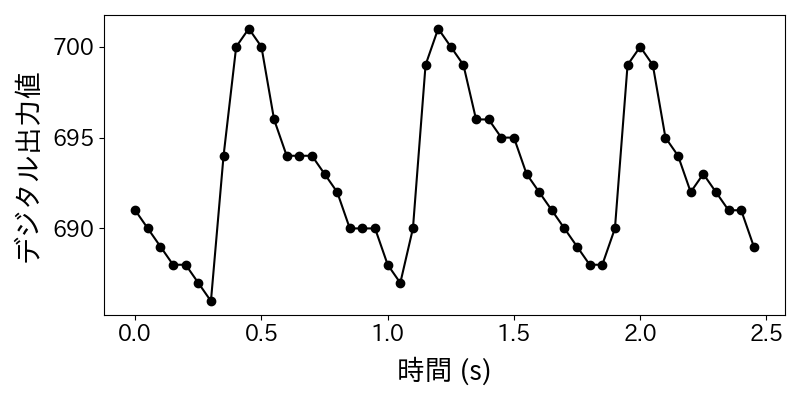
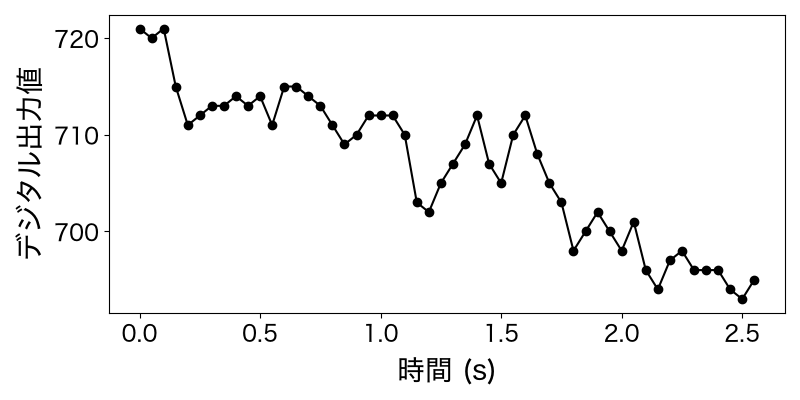
feat(tutorial): 閾値変更・相対パス読み込み対応・実測CSV追加および結果グラフを更新

diff --git a/work/tutorial/tutorial.py b/work/tutorial/tutorial.py
@@ -1,7 +1,12 @@
+from pathlib import Path
+
 import matplotlib
 import matplotlib.font_manager
 import matplotlib.pyplot as plt
 import pandas as pd
+
+# スクリプト自身のディレクトリを取得
+BASE_DIR = Path(__file__).resolve().parent
 
 # 日本語フォントの設定（macOS/Linux/Windows対応）
 _JP_FONTS = [
@@ -20,13 +25,18 @@ plt.rcParams["axes.unicode_minus"] = False
 
 fig = plt.figure(figsize=(8, 4))
 ax = fig.subplots()
-data = pd.read_csv("tutorial_data.csv")
+
+# 修正箇所: スクリプトと同じ階層から読み込み・保存
+csv_path = BASE_DIR / "tutorial_data.csv"
+output_path = BASE_DIR / "../../report/fig" / "result_tutorial.png"
+
+data = pd.read_csv(csv_path)
 t = data["time"].values
 v = data["value"].values
 ax.plot(t, v, "ko-", markersize=6)
 ax.set_xlabel("時間 (s)", fontsize=20, labelpad=8)
-ax.set_ylabel("デジタル出⼒値", fontsize=20, labelpad=8)
+ax.set_ylabel("デジタル出力値", fontsize=20, labelpad=8)
 ax.tick_params(labelsize=16)
 plt.tight_layout()
-plt.savefig("result_tutorial.png")
+plt.savefig(output_path)
 plt.show()
